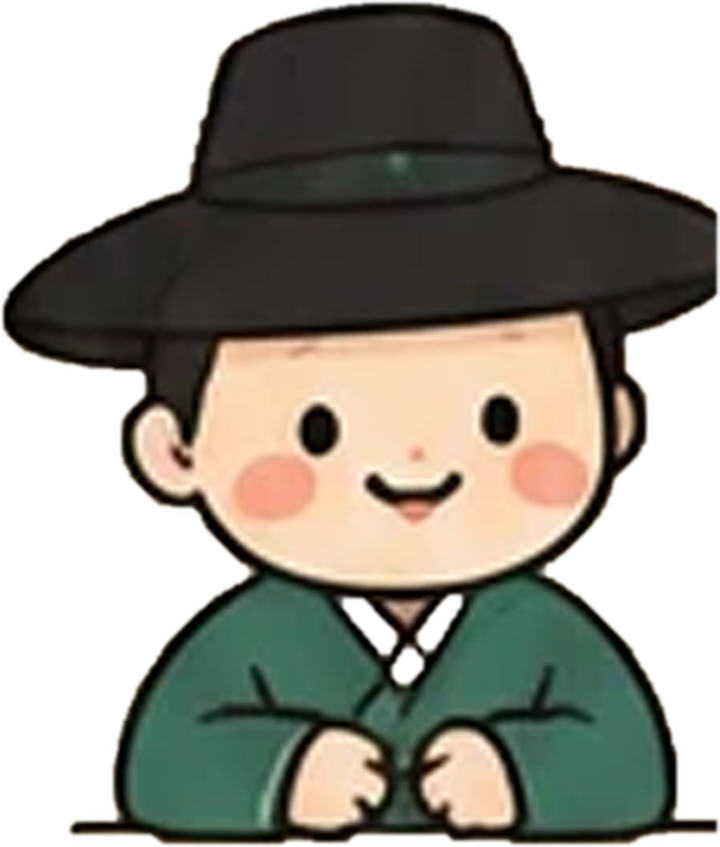
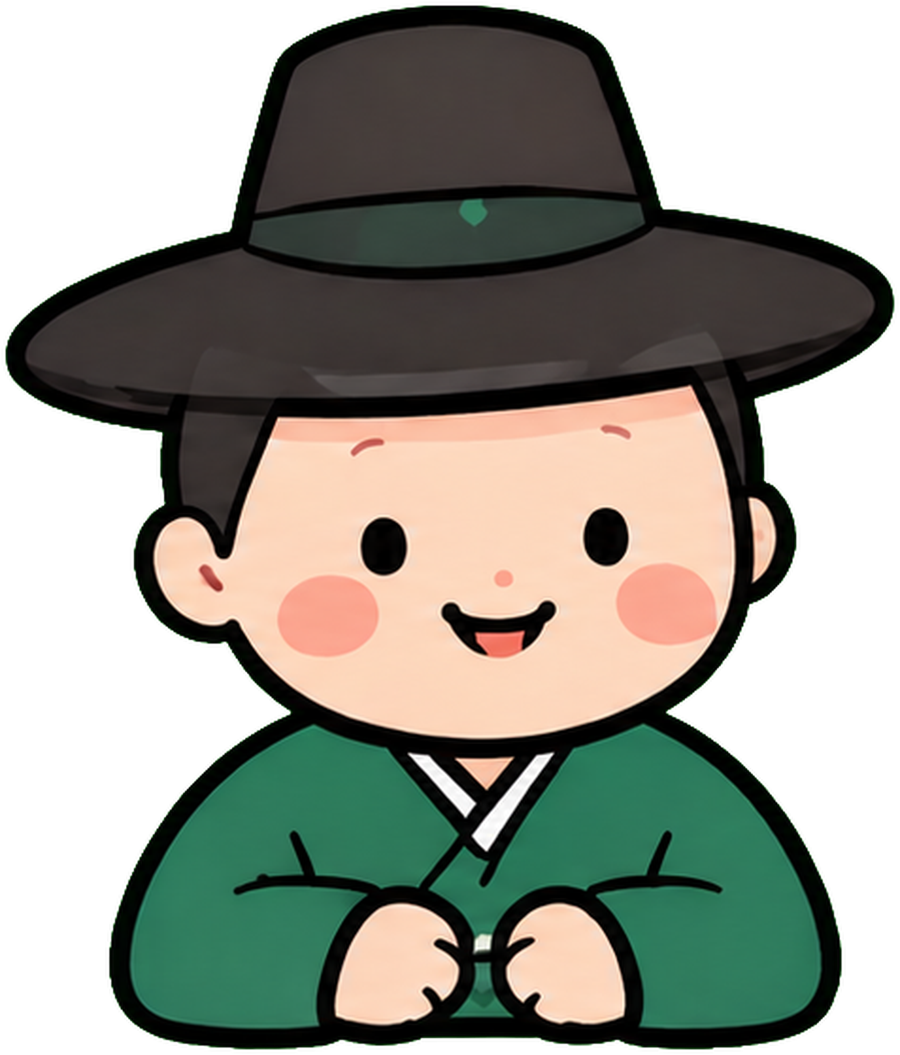
캐릭터 5종을 새로 그린 고해상 버전으로 교체(900px), 홈 캐릭터 줄 간격 정리
Claude-Session: https://claude.ai/code/session_01TWdZfYCkZ1NgYQpFf8hxDm

diff --git a/app/src/routes/index.tsx b/app/src/routes/index.tsx
@@ -1,6 +1,11 @@
 import { useEffect, useRef, useState } from "react";
 import { Link, createFileRoute } from "@tanstack/react-router";
-import { Friend, type FriendKind } from "@/components/Friends";
+import {
+  Friend,
+  type FriendKind,
+  FRIEND_IMG,
+  FRIEND_INFO,
+} from "@/components/Friends";
 import { Coin, Page } from "@/components/Shell";
 
 export const Route = createFileRoute("/")({ component: Home });
@@ -212,8 +217,17 @@ function Home() {
             {(
               ["seonbi", "ssi", "tiger", "rabbit", "turtle"] as FriendKind[]
             ).map((k) => (
-              <div key={k} className="-mx-1 flex-1 text-center">
-                <Friend kind={k} size={92} />
+              <div
+                key={k}
+                className="flex flex-1 items-end justify-center"
+                style={{ height: 104 }}
+              >
+                <img
+                  src={FRIEND_IMG[k]}
+                  alt={FRIEND_INFO[k].name}
+                  className="max-h-full w-[19vw] max-w-[84px] object-contain"
+                  draggable={false}
+                />
               </div>
             ))}
           </div>
